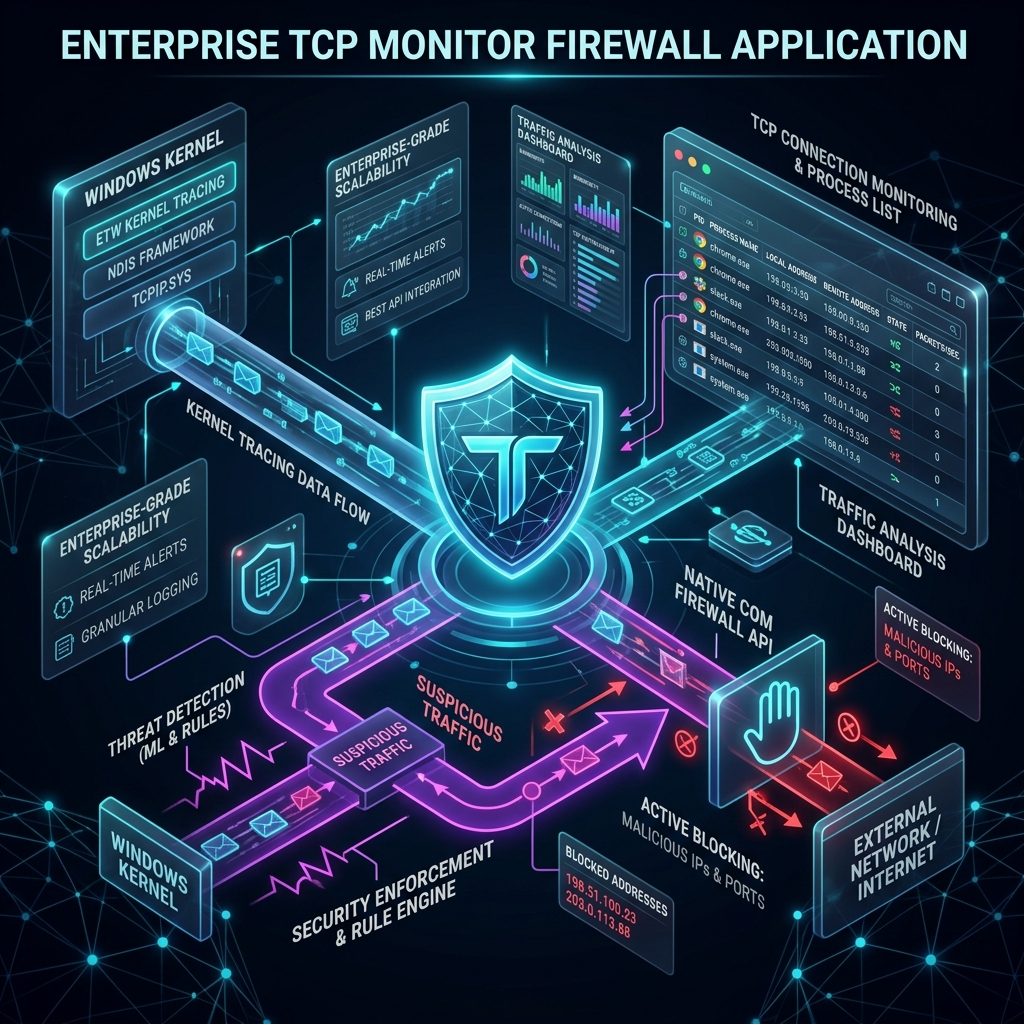
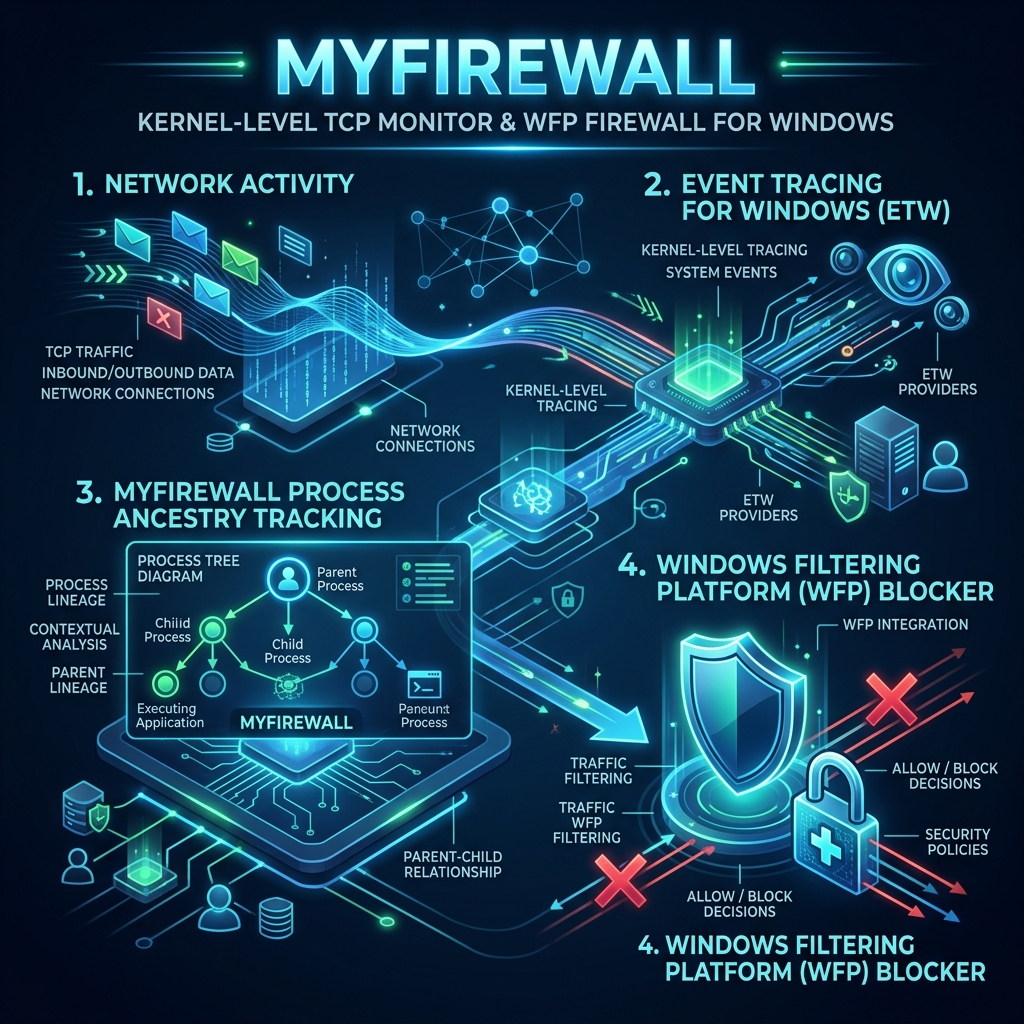
docs: Rewrite README.md and update infographic

diff --git a/README.md b/README.md
@@ -1,17 +1,20 @@
 # 🛡️ MyFirewall: Advanced Kernel-Level TCP Monitor & WFP Firewall
 
-**MyFirewall** is a premium, high-performance security utility for Windows that bridges the gap between low-level network telemetry and proactive firewall control. Combining Event Tracing for Windows (ETW) with direct Windows Filtering Platform (WFP) integration, MyFirewall delivers real-time visibility and instant enforcement capability through both a console-based CLI and a WPF Desktop interface.
+**MyFirewall** is a professional, high-performance security utility for Windows that bridges the gap between low-level network telemetry and proactive firewall control. Combining Event Tracing for Windows (ETW) with direct Windows Filtering Platform (WFP) integration, MyFirewall delivers real-time visibility and instant enforcement capability through both a console-based CLI and a WPF Desktop interface.
 
 ![MyFirewall Infographic](assets/infographic.png)
+
+---
 
 ## 🌟 Key Features
 
 *   **Real-Time Kernel Telemetry:** Hooks directly into the Microsoft-Windows-Kernel-Network ETW provider for zero-overhead, real-time packet and socket connection monitoring.
 *   **Direct WFP Integration:** Interacts with the native Windows Filtering Platform using direct COM interface bindings (`HNetCfg.FwPolicy2`). No slow shell commands, no `netsh.exe`, no PowerShell overhead.
+*   **Process Ancestry Tracking (ETW Engine):** Tracks the full parent lineage of any running connection (e.g., `explorer.exe` ↳ `cmd.exe` ↳ `powershell.exe` ↳ `curl.exe`). By listening to ETW `Process` start events, MyFirewall maintains a process lineage map, showing the exact execution path of a network socket even if intermediate parent processes have already exited.
 *   **Connection Back-Tracing (PID 0 Ghosting Resolution):** Automatically tracks transient socket-level connections. When a process closes a connection, the OS often attributes the closing state to `PID 0` (Idle) or `Unknown`. MyFirewall caches active socket keys (`RemoteIP:RemotePort-LocalPort`) to back-trace and correctly identify the originating application (e.g., `chrome (closed)`), closing the visibility gap.
 *   **Threat Intelligence Analyzer:** Inspects process metadata on the fly—including parent process ID, execution path, digital signatures, and authenticode validation.
 *   **Geographic & DNS Resolution:** Asynchronously resolves remote IP locations and hostnames with built-in TTL caching to prevent system lag.
-*   **Responsive WPF Desktop UI:** Features an anti-flicker smart-diffing data grid to seamlessly display hundreds of active connections in real-time.
+*   **Responsive WPF Desktop UI:** Features an anti-flicker smart-diffing data grid to seamlessly display hundreds of active connections in real-time, complete with a detailed process ancestry drawer.
 *   **Interactive Command Line Interface:** A keyboard-driven console utility providing quick diagnostics, real-time logging, and interactive rule management.
 *   **Process Tree Termination:** Instantly terminates suspicious applications along with their entire process ancestry.
 
@@ -26,8 +29,8 @@
                      [ Windows Kernel (ETW) ]
                                 │
                                 ▼
-                   [ NetworkMonitorService ] 
-                    (Socket History Cache)
+                    [ NetworkMonitorService ] 
+                     (Socket History Cache)
                                 │
           ┌─────────────────────┴─────────────────────┐
           ▼                                           ▼
@@ -45,7 +48,8 @@
 
 1. **Kernel Hooking:** Captures socket connections immediately as they occur at the kernel layer.
 2. **State Sync & Cache:** Maps remote IP/ports dynamically and maintains short-lived maps to resolve process IDs even after processes terminate.
-3. **Native Filtering:** Manages native WFP rules directly, allowing rule evaluation to happen entirely in kernel space.
+3. **Lineage Resolution:** Listens to real-time process creation events to track full hierarchy (child -> parent -> grandparent) up to the system root.
+4. **Native Filtering:** Manages native WFP rules directly, allowing rule evaluation to happen entirely in kernel space.
 
 ---
 
@@ -59,6 +63,7 @@ Download the latest release package matching your environment:
 | `release_desktop_win_x64.zip` | Windows (x64) | WPF Graphical application. |
 
 ### Verify Artifact Integrity
+
 To verify the integrity of the downloaded zip files, use PowerShell to validate the SHA256 checksum:
 
 ```powershell
@@ -69,16 +74,19 @@ Get-FileHash .\release_desktop_win_x64.zip -Algorithm SHA256
 
 ## 📖 Usage Guide
 
-Both applications require administrative privileges (UAC elevation) to register ETW tracing sessions and modify WFP firewall rules.
+> [!WARNING]
+> Both applications require administrative privileges (UAC elevation) to register ETW tracing sessions and modify WFP firewall rules.
 
 ### WPF Desktop Application
 1. Run `MyFirewall.Desktop.exe` as Administrator.
 2. The main window lists active TCP connections with their PID, Domain, Geo-IP, and process information.
-3. **Right-click** any connection row to open the context menu:
+3. Select any connection to view the **Selected Connection Details** drawer on the right.
+4. The details drawer displays the full **Process Ancestry** tree structure top-to-bottom.
+5. **Right-click** any connection row to open the context menu:
     *   **Block Remote IP:** Immediately block all traffic to/from that remote IP.
     *   **Ignore Process:** Filter out the selected application from the UI list.
     *   **Kill Process Tree:** Terminate the parent process and all its children.
-4. Toggle the **Threat Intelligence** strategies in the top bar to adjust active auditing depth.
+6. Toggle the **Threat Intelligence** strategies in the top bar to adjust active auditing depth.
 
 ### CLI Console Application
 Run `MyFirewall.exe` as Administrator. Manage the monitor in real-time using the following interactive keys: